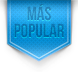
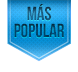
ortografía

Changed region(s): [[0.0, 0.0, 1.0, 0.9167], [0.1795, 0.3056, 0.8205, 0.5278], [0.3333, 0.0556, 0.6667, 0.2778]]

diff --git a/lib/components/view_contest/view_contest_entry_comp.dart b/lib/components/view_contest/view_contest_entry_comp.dart
@@ -61,7 +61,7 @@ class ViewContestEntryComp {
   bool get showInviteButton => (contest != null) ?  contest.maxEntries != contest.contestEntries.length : false;
 
   // A esta pantalla entramos de varias maneras:
-  bool get isModeViewing => _viewContestEntryMode == "viewing"; // Clickamos "my_contests->proximos->ver".
+  bool get isModeViewing => _viewContestEntryMode == "viewing"; // Clickamos "my_contests->próximos->ver".
   bool get isModeCreated => _viewContestEntryMode == "created"; // Acabamos de crearla a traves de enter_contest
   bool get isModeEdited  => _viewContestEntryMode == "edited";  // Venimos de editarla a traves de enter_contest.
   bool get isModeSwapped => _viewContestEntryMode == "swapped"; // Acabamos de crearla pero el servidor nos cambio a otro concurso pq el nuestro estaba lleno.

diff --git a/lib/components/my_contests_comp.html b/lib/components/my_contests_comp.html
@@ -33,8 +33,8 @@
     <!-- lista vacía -->
     <div class="no-contests-wrapper" ng-switch-when="false">
         <img class="no-contests-icon" src="images/icon-torneo-proximo-vacio.png">
-        <div class="no-contests-title">NO ESTAS PARTICIPANDO EN NINGÚN TORNEO</div>
-        <div class="no-contests-subtitle">Ve a lista de torneos, elije uno y empieza a jugar</div>
+        <div class="no-contests-title">NO ESTÁS PARTICIPANDO EN NINGÚN TORNEO</div>
+        <div class="no-contests-subtitle">Ve a la lista de torneos, elije uno y empieza a jugar</div>
         <button class="btn-go-to-contest" ng-click="gotoLobby()">{{getLocalizedText("tocontest")}}</button>
     </div>
     <!-- lista de concursos -->

diff --git a/lib/components/leaderboards/leaderboard_table_comp.html b/lib/components/leaderboards/leaderboard_table_comp.html
@@ -8,7 +8,7 @@
   <div class="leaderboard-table-data" ng-class="{'player-position':isThePlayer(element['id'])}" ng-repeat="element in shownElements">
       <div class="leaderboard-column-position">{{element['position']}}º</div>    
       <div class="leaderboard-column-name">
-        {{element['id'] == profileService.user.userId ? 'TU' : element['name']}}
+        {{element['id'] == profileService.user.userId ? 'TÚ' : element['name']}}
         <!--social-share parameters-by-map="sharingInfo" show-like="false" inline ng-if="isThePlayer(element['id']) && sharingInfo != null"></social-share-->
       </div>
       <div class="leaderboard-column-score">{{element['points']}}</div>

diff --git a/lib/components/navigation/tab_bar_comp.dart b/lib/components/navigation/tab_bar_comp.dart
@@ -64,7 +64,7 @@ class TabBarComp {
                                                 iconImage: "images/tabBar/Button_Home.png",
                                                 destination: "home"),
             MY_CONTESTS  : new TabBarItemComp( _router, 
-                                                name: "Proximos",
+                                                name: "Próximos",
                                                 iconImage: "images/tabBar/Button_Nexts.png", 
                                                 destination: "my_contests",
                                                 parameters: {"section": "upcoming"}),

diff --git a/lib/components/create_contest_comp.html b/lib/components/create_contest_comp.html
@@ -19,7 +19,7 @@
   <!-- RIVALES -->
   <div class="create-contest-title-wrapper">
     <div class="title-num">2</div>
-    <div class="title-name">SELECCIONA EL NUMERO DE RIVALES</div>
+    <div class="title-name">SELECCIONA EL NÚMERO DE RIVALES</div>
   </div>
   <div class="create-contest-section">
     <div class="title">{{getLocalizedText("rivals")}}</div>
